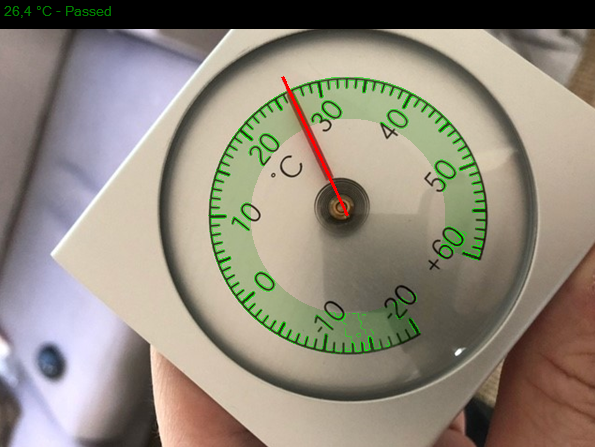
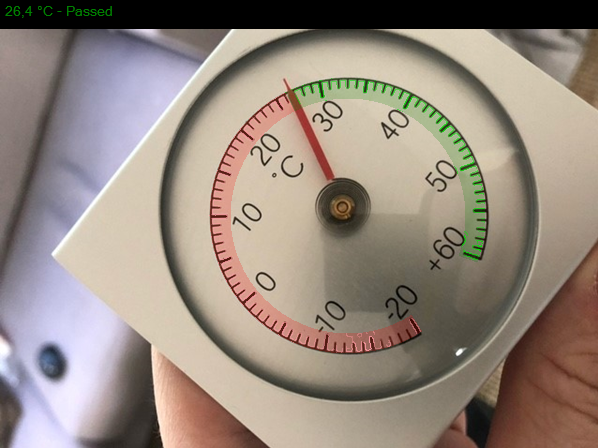
Add demo profile

diff --git a/Profiles/Demo.cs b/Profiles/Demo.cs
@@ -1,0 +1,33 @@
+namespace GaugeReader.Profiles
+{
+    using GaugeReader.Extensions;
+    using GaugeReader.Filters;
+    using GaugeReader.Filters.Models;
+    using GaugeReader.Math.Models.Angles;
+    using GaugeReader.Profiles.Models;
+    using System;
+    using System.Drawing;
+
+    public class Demo : IProfile
+    {
+        public string Name => nameof(Demo);
+
+        public RadiusZone DialZone => new RadiusZone(0.6, 1);
+
+        public RadiusZone CenterZone => new RadiusZone(0, 0.1);
+
+        public RadiusZone MarkerZone => new RadiusZone(0.65, 0.8);
+
+        public Angle TicksAngle => 270d.ToRadians();
+
+        public Func<int, string> Reading => percent => $"{Math.Round(percent + 1.9 * Math.Pow(percent, 0.5))} °C";
+
+        public IFilter MarkerFilter => new CannyFilter();
+
+        public IFilter HandFilter => new CannyFilter();
+
+        public Bitmap Correlation => (Bitmap)Image.FromFile(@"Profiles\Correlations\Demo.png");
+
+        public bool ArrowHand => true;
+    }
+}

diff --git a/Constants.cs b/Constants.cs
@@ -28,13 +28,13 @@
 
 
         // Search settings
-        public static RadiusZone SearchRadius = new RadiusZone(0.2, 1); 
+        public static RadiusZone SearchRadius = new RadiusZone(0.1, 1); 
         public static int ScaleWidth = 600;
         public static double HandSearchAngle = PI / 8;
         public static int MinTicks = 12;
 
         public static string FallbackProfileName = "Simple";
-        public static string DefaultPath = @"TestSets\Thermometer\thermometer_8_ex_57.jpg";
+        public static string DefaultPath = @"TestSets\Thermometer\thermometer_1_ex_57.jpg";
 
     }
 }

diff --git a/GaugeForm.Designer.cs b/GaugeForm.Designer.cs
@@ -93,8 +93,6 @@
             // 
             this.DebugCheckBox.Anchor = ((System.Windows.Forms.AnchorStyles)((System.Windows.Forms.AnchorStyles.Bottom | System.Windows.Forms.AnchorStyles.Right)));
             this.DebugCheckBox.AutoSize = true;
-            this.DebugCheckBox.Checked = true;
-            this.DebugCheckBox.CheckState = System.Windows.Forms.CheckState.Checked;
             this.DebugCheckBox.Location = new System.Drawing.Point(1196, 727);
             this.DebugCheckBox.Name = "DebugCheckBox";
             this.DebugCheckBox.Size = new System.Drawing.Size(58, 17);

diff --git a/Processors/HandProcessor.cs b/Processors/HandProcessor.cs
@@ -52,7 +52,7 @@
             var kv = maskedLines.OrderByDescending(ml => ml.Value.Item2.Intensity).FirstOrDefault();
             kv.Key.DrawLine(args.Gauge.Hand.Line1, Color.Lime);
             kv.Key.DrawLine(args.Gauge.Hand.Line2, Color.Lime);
-            args.Gauge.Hand.Angle = (args.Gauge.Hand.Line1.Angle.Opposite.Value + args.Gauge.Hand.Line2.Angle.Opposite.Value) /2;
+            args.Gauge.Hand.Angle = (args.Gauge.Hand.Line1.Angle.Opposite.Value);
             AddDebugImage(kv.Key);
         }
     }
